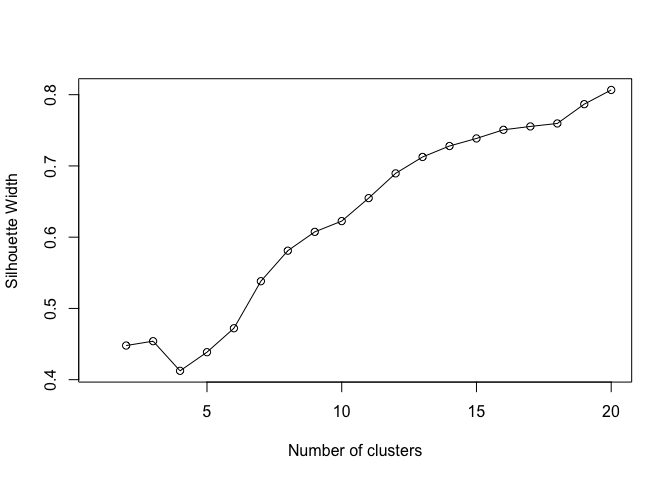
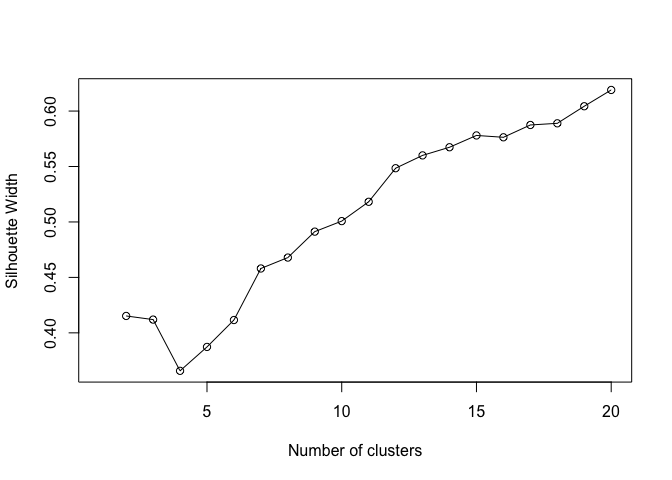
AGNES and DIANA

diff --git a/Restaurant Clustering/Clustering-Analysis---Mixed-Clustering.md b/Restaurant Clustering/Clustering-Analysis---Mixed-Clustering.md
@@ -1,17 +1,18 @@
-R Notebook
+Mixed Clustering
 ================
-
-**Set working directory**
-
-``` r
-setwd("/Users/arunavsaikia/Documents/GitHub/NLP-Yelp-Restaurants/Restaurant Clustering/")
-```
+Arunav Saikia
 
 <h2>
 
 Getting Ready
 
 </h2>
+
+**Set working directory**
+
+``` r
+setwd("/Users/arunavsaikia/Documents/GitHub/NLP-Yelp-Restaurants/Restaurant Clustering/")
+```
 
 **Explore the data**
 
@@ -26,20 +27,20 @@ Read data and cast variables appropriately. The different data types are
 
 ``` r
 df <- read.csv('../data/clusteringAD_new.csv')
-df_subset <- df[,c(37,39,40)]
+df_subset <- df[,c(37,38,39,40)]
 df_subset$rating <- as.ordered(df_subset$rating)
 df_subset$expensivenss <- as.ordered(df_subset$expensivenss)
 summary(df_subset)
 ```
 
-    ##     cuisines         rating    expensivenss
-    ##  Min.   :1.000   3.5    :357   1: 89       
-    ##  1st Qu.:1.000   4      :313   2:697       
-    ##  Median :1.000   3      :167   3:132       
-    ##  Mean   :1.712   2.5    : 45   4: 17       
-    ##  3rd Qu.:2.000   4.5    : 44               
-    ##  Max.   :5.000   2      :  5               
-    ##                  (Other):  4
+    ##     cuisines         review           rating    expensivenss
+    ##  Min.   :1.000   Min.   :  52.0   3.5    :357   1: 89       
+    ##  1st Qu.:1.000   1st Qu.:  88.5   4      :313   2:697       
+    ##  Median :1.000   Median : 131.0   3      :167   3:132       
+    ##  Mean   :1.712   Mean   : 185.9   2.5    : 45   4: 17       
+    ##  3rd Qu.:2.000   3rd Qu.: 214.5   4.5    : 44               
+    ##  Max.   :5.000   Max.   :2712.0   2      :  5               
+    ##                                   (Other):  4
 
 <h2>
 
@@ -70,8 +71,8 @@ summary(gower.dist)
 
     ## 436645 dissimilarities, summarized :
     ##    Min. 1st Qu.  Median    Mean 3rd Qu.    Max. 
-    ## 0.00000 0.09524 0.16667 0.17931 0.24206 0.82143 
-    ## Metric :  mixed ;  Types = I, O, O 
+    ## 0.00000 0.08446 0.13825 0.14818 0.20113 0.65194 
+    ## Metric :  mixed ;  Types = I, I, O, O 
     ## Number of objects : 935
 
 **Look at similar/dissimilar restaurants**
@@ -91,9 +92,9 @@ df_subset[
         arr.ind = TRUE)[1, ], ]
 ```
 
-    ##     cuisines rating expensivenss
-    ## 157        3    4.5            2
-    ## 2          3      4            2
+    ##     cuisines review rating expensivenss
+    ## 583        3    161    2.5            2
+    ## 18         3    160    2.5            2
 
 ``` r
 # Output most dissimilar pair
@@ -103,9 +104,9 @@ df_subset[
         arr.ind = TRUE)[1, ], ]
 ```
 
-    ##     cuisines rating expensivenss
-    ## 830        2    1.5            1
-    ## 563        4    4.5            4
+    ##     cuisines review rating expensivenss
+    ## 757        3    156      3            4
+    ## 564        1   2712    4.5            2
 
 <h2>
 
@@ -139,6 +140,11 @@ aggregated measure of how similar an observation is to its own cluster
 compared its closest neighboring cluster. The metric can range from -1
 to 1, where higher values are better.
 
+Increasing number of clusters will almost always lead to better
+silhouette score, but that does not make sense or satisfy the objective.
+Long story short, we should pick a meaningful number that is simple and
+equally as good.
+
 ``` r
 max_clusters <- 20
 sil_width <- c(NA)
@@ -162,6 +168,7 @@ lines(1:max_clusters, sil_width)
 ```
 
 ![](Clustering-Analysis---Mixed-Clustering_files/figure-gfm/unnamed-chunk-5-1.png)<!-- -->
+
 ***Cluster Interpretation via descriptive statistics***
 
 After running the algorithm and selecting 7 clusters, we can interpret
@@ -183,13 +190,12 @@ library(dplyr)
     ##     intersect, setdiff, setequal, union
 
 ``` r
-num_clusters = 3
+num_clusters = 7
 pam_fit <- pam(gower.dist,
                  diss = TRUE,
                  k = num_clusters)
 
 pam_results <- df_subset %>%
-  dplyr::select(1,2,3) %>%
   mutate(cluster = pam_fit$clustering) %>%
   group_by(cluster) %>%
   do(the_summary = summary(.))
@@ -198,36 +204,79 @@ pam_results$the_summary
 ```
 
     ## [[1]]
-    ##     cuisines     rating    expensivenss    cluster 
-    ##  Min.   :1   3.5    :204   1: 68        Min.   :1  
-    ##  1st Qu.:1   4      :172   2:373        1st Qu.:1  
-    ##  Median :1   3      : 71   3: 55        Median :1  
-    ##  Mean   :1   4.5    : 33   4:  4        Mean   :1  
-    ##  3rd Qu.:1   2.5    : 16                3rd Qu.:1  
-    ##  Max.   :1   2      :  2                Max.   :1  
-    ##              (Other):  2                           
+    ##     cuisines     review           rating    expensivenss    cluster 
+    ##  Min.   :1   Min.   : 52.00   3.5    :157   1:  0        Min.   :1  
+    ##  1st Qu.:1   1st Qu.: 85.25   3      : 60   2:234        1st Qu.:1  
+    ##  Median :1   Median :117.00   2.5    : 15   3:  0        Median :1  
+    ##  Mean   :1   Mean   :163.17   1.5    :  1   4:  0        Mean   :1  
+    ##  3rd Qu.:1   3rd Qu.:200.25   2      :  1                3rd Qu.:1  
+    ##  Max.   :1   Max.   :941.00   4      :  0                Max.   :1  
+    ##                               (Other):  0                           
     ## 
     ## [[2]]
-    ##     cuisines         rating   expensivenss    cluster 
-    ##  Min.   :3.000   3.5    :61   1:  6        Min.   :2  
-    ##  1st Qu.:3.000   4      :48   2:140        1st Qu.:2  
-    ##  Median :3.000   3      :44   3: 32        Median :2  
-    ##  Mean   :3.269   2.5    :18   4:  4        Mean   :2  
-    ##  3rd Qu.:3.000   4.5    : 7                3rd Qu.:2  
-    ##  Max.   :5.000   2      : 3                Max.   :2  
-    ##                  (Other): 1                           
+    ##     cuisines         review           rating   expensivenss    cluster 
+    ##  Min.   :3.000   Min.   :  53.0   3.5    :61   1:  6        Min.   :2  
+    ##  1st Qu.:3.000   1st Qu.: 102.5   3      :44   2:140        1st Qu.:2  
+    ##  Median :3.000   Median : 152.0   4      :36   3: 20        Median :2  
+    ##  Mean   :3.269   Mean   : 200.0   2.5    :18   4:  1        Mean   :2  
+    ##  3rd Qu.:3.000   3rd Qu.: 237.5   4.5    : 4                3rd Qu.:2  
+    ##  Max.   :5.000   Max.   :1587.0   2      : 3                Max.   :2  
+    ##                                   (Other): 1                           
     ## 
     ## [[3]]
-    ##     cuisines     rating   expensivenss    cluster 
-    ##  Min.   :2   4      :93   1: 15        Min.   :3  
-    ##  1st Qu.:2   3.5    :92   2:184        1st Qu.:3  
-    ##  Median :2   3      :52   3: 45        Median :3  
-    ##  Mean   :2   2.5    :11   4:  9        Mean   :3  
-    ##  3rd Qu.:2   4.5    : 4                3rd Qu.:3  
-    ##  Max.   :2   1.5    : 1                Max.   :3  
-    ##              (Other): 0
+    ##     cuisines     review          rating   expensivenss    cluster 
+    ##  Min.   :2   Min.   : 55.0   3.5    :72   1:  9        Min.   :3  
+    ##  1st Qu.:2   1st Qu.: 83.0   4      :61   2:184        1st Qu.:3  
+    ##  Median :2   Median :119.0   3      :47   3:  0        Median :3  
+    ##  Mean   :2   Mean   :159.9   2.5    :10   4:  0        Mean   :3  
+    ##  3rd Qu.:2   3rd Qu.:174.0   4.5    : 2                3rd Qu.:3  
+    ##  Max.   :2   Max.   :907.0   1.5    : 1                Max.   :3  
+    ##                              (Other): 0                           
+    ## 
+    ## [[4]]
+    ##     cuisines         review          rating   expensivenss    cluster 
+    ##  Min.   :2.000   Min.   : 63.0   4      :38   1: 0         Min.   :4  
+    ##  1st Qu.:2.000   1st Qu.:109.0   3.5    :20   2: 0         1st Qu.:4  
+    ##  Median :2.000   Median :166.0   3      : 5   3:57         Median :4  
+    ##  Mean   :2.275   Mean   :225.4   4.5    : 5   4:12         Mean   :4  
+    ##  3rd Qu.:2.000   3rd Qu.:265.0   2.5    : 1                3rd Qu.:4  
+    ##  Max.   :4.000   Max.   :853.0   1.5    : 0                Max.   :4  
+    ##                                  (Other): 0                           
+    ## 
+    ## [[5]]
+    ##     cuisines     review           rating    expensivenss    cluster 
+    ##  Min.   :1   Min.   :  53.0   4      :119   1:  0        Min.   :5  
+    ##  1st Qu.:1   1st Qu.:  94.0   4.5    : 20   2:139        1st Qu.:5  
+    ##  Median :1   Median : 143.0   1.5    :  0   3:  0        Median :5  
+    ##  Mean   :1   Mean   : 230.4   2      :  0   4:  0        Mean   :5  
+    ##  3rd Qu.:1   3rd Qu.: 255.5   2.5    :  0                3rd Qu.:5  
+    ##  Max.   :1   Max.   :2712.0   3      :  0                Max.   :5  
+    ##                               (Other):  0                           
+    ## 
+    ## [[6]]
+    ##     cuisines     review          rating   expensivenss    cluster 
+    ##  Min.   :1   Min.   : 61.0   3.5    :26   1: 0         Min.   :6  
+    ##  1st Qu.:1   1st Qu.:113.5   4      :24   2: 0         1st Qu.:6  
+    ##  Median :1   Median :160.0   4.5    : 6   3:55         Median :6  
+    ##  Mean   :1   Mean   :204.8   3      : 2   4: 4         Mean   :6  
+    ##  3rd Qu.:1   3rd Qu.:222.5   2.5    : 1                3rd Qu.:6  
+    ##  Max.   :1   Max.   :890.0   1.5    : 0                Max.   :6  
+    ##                              (Other): 0                           
+    ## 
+    ## [[7]]
+    ##     cuisines         review            rating   expensivenss    cluster 
+    ##  Min.   :1.000   Min.   :  57.00   4      :35   1:74         Min.   :7  
+    ##  1st Qu.:1.000   1st Qu.:  74.25   3.5    :21   2: 0         1st Qu.:7  
+    ##  Median :1.000   Median :  98.00   3      : 9   3: 0         Median :7  
+    ##  Mean   :1.081   Mean   : 158.19   4.5    : 7   4: 0         Mean   :7  
+    ##  3rd Qu.:1.000   3rd Qu.: 141.75   2      : 1                3rd Qu.:7  
+    ##  Max.   :2.000   Max.   :1279.00   5      : 1                Max.   :7  
+    ##                                    (Other): 0
 
 ***Visualizing the clusters***
+
+Although not perfect, colors are mostly located in similar areas,
+confirming the relevancy of the segmentation
 
 ``` r
 library(Rtsne)
@@ -248,26 +297,119 @@ ggplot(aes(x = X, y = Y), data = tsne_data) +
 ```
 
 ![](Clustering-Analysis---Mixed-Clustering_files/figure-gfm/unnamed-chunk-7-1.png)<!-- -->
-**Hierarchical Clustering - Divisive & Agglomerative**
+
+<h2>
+
+Algorithm 2 - Hierarchical Clustering
+
+</h2>
+
+**What is Hierarchical Clustering?**
+
+1.  ***Agglomerative clustering***: Also known as **AGNES (Agglomerative
+    Nesting)** works in a bottom-up manner. Each object is initially
+    considered as a single-element cluster (leaf). At each step of the
+    algorithm, the two clusters that are the most similar are combined
+    into a new bigger cluster (nodes). This procedure is iterated until
+    all points are member of just one single big cluster (root) (see
+    figure below)
+
+2.  ***Divisive hierarchical clustering***: It’s also known as **DIANA
+    (Divise Analysis)** and it works in a top-down manner. The algorithm
+    is an inverse order of AGNES. It begins with the root, in which all
+    objects are included in a single cluster. At each step of iteration,
+    the most heterogeneous cluster is divided into two. The process is
+    iterated until all objects are in their own cluster (see figure
+    below).
+
+![alt
+text](http://www.sthda.com/sthda/RDoc/images/hierarchical-clustering-agnes-diana.png
+"AGNES vs DIANA")
+
+***Agglomerative clustering is good at identifying small clusters.
+Divisive hierarchical clustering is good at identifying large
+clusters.***
 
 ``` r
 #------------ DIVISIVE CLUSTERING ------------#
-divisive.clust <- diana(as.matrix(gower.dist), 
-                  diss = TRUE, keep.diss = TRUE)
-plot(divisive.clust, main = "Divisive")
+divisive.clust <- diana(gower.dist, 
+                  diss = TRUE, keep.diss = FALSE)
+divisive.clust$dc
 ```
 
-![](Clustering-Analysis---Mixed-Clustering_files/figure-gfm/unnamed-chunk-8-1.png)<!-- -->![](Clustering-Analysis---Mixed-Clustering_files/figure-gfm/unnamed-chunk-8-2.png)<!-- -->
+    ## [1] 0.9920504
+
+``` r
+pltree(divisive.clust, main = "Divisive")
+```
+
+![](Clustering-Analysis---Mixed-Clustering_files/figure-gfm/unnamed-chunk-8-1.png)<!-- -->
 
 ``` r
 #------------ AGGLOMERATIVE CLUSTERING ------------#
-# complete
+# “complete”, “average”, “single”, “ward.D”
+par(mfrow=c(2,2))
 aggl.clust.c <- hclust(gower.dist, method = "complete")
+aggl.clust.a <- hclust(gower.dist, method = "average")
+aggl.clust.s <- hclust(gower.dist, method = "single")
+aggl.clust.w <- hclust(gower.dist, method = "ward.D")
 plot(aggl.clust.c,
      main = "Agglomerative, complete linkages")
+plot(aggl.clust.a,
+     main = "Agglomerative, average linkages")
+plot(aggl.clust.s,
+     main = "Agglomerative, single linkages")
+plot(aggl.clust.w,
+     main = "Agglomerative, ward linkages")
 ```
 
 ![](Clustering-Analysis---Mixed-Clustering_files/figure-gfm/unnamed-chunk-9-1.png)<!-- -->
+
+**Assess strength of the clusters**
+
+``` r
+library(purrr)
+m <- c( "average", "single", "complete", "ward")
+names(m) <- c( "average", "single", "complete", "ward")
+
+# function to compute coefficient
+ac <- function(x) {
+  agnes(gower.dist, diss = TRUE, method = x)$ac
+}
+
+map(m, ac)
+```
+
+    ## $average
+    ## [1] 0.9860011
+    ## 
+    ## $single
+    ## [1] 0.978832
+    ## 
+    ## $complete
+    ## [1] 0.9936436
+    ## 
+    ## $ward
+    ## [1] 0.9984664
+
+**Silhouette analysis**
+
+``` r
+library(factoextra)
+```
+
+    ## Welcome! Related Books: `Practical Guide To Cluster Analysis in R` at https://goo.gl/13EFCZ
+
+``` r
+# sub_grp <- cutree(aggl.clust.w, k = 3)
+
+# Number of members in each cluster
+# table(sub_grp)
+# fviz_nbclust(as.matrix(gower.dist), FUN = hcut, method = "silhouette")
+fviz_nbclust(df_subset, FUN = kmeans, method = "silhouette")
+```
+
+![](Clustering-Analysis---Mixed-Clustering_files/figure-gfm/unnamed-chunk-11-1.png)<!-- -->
 
 <h2>
 
@@ -276,3 +418,4 @@ References
 </h2>
 
 1.  <https://www.r-bloggers.com/clustering-mixed-data-types-in-r/>
+2.  <https://towardsdatascience.com/hierarchical-clustering-on-categorical-data-in-r-a27e578f2995>
